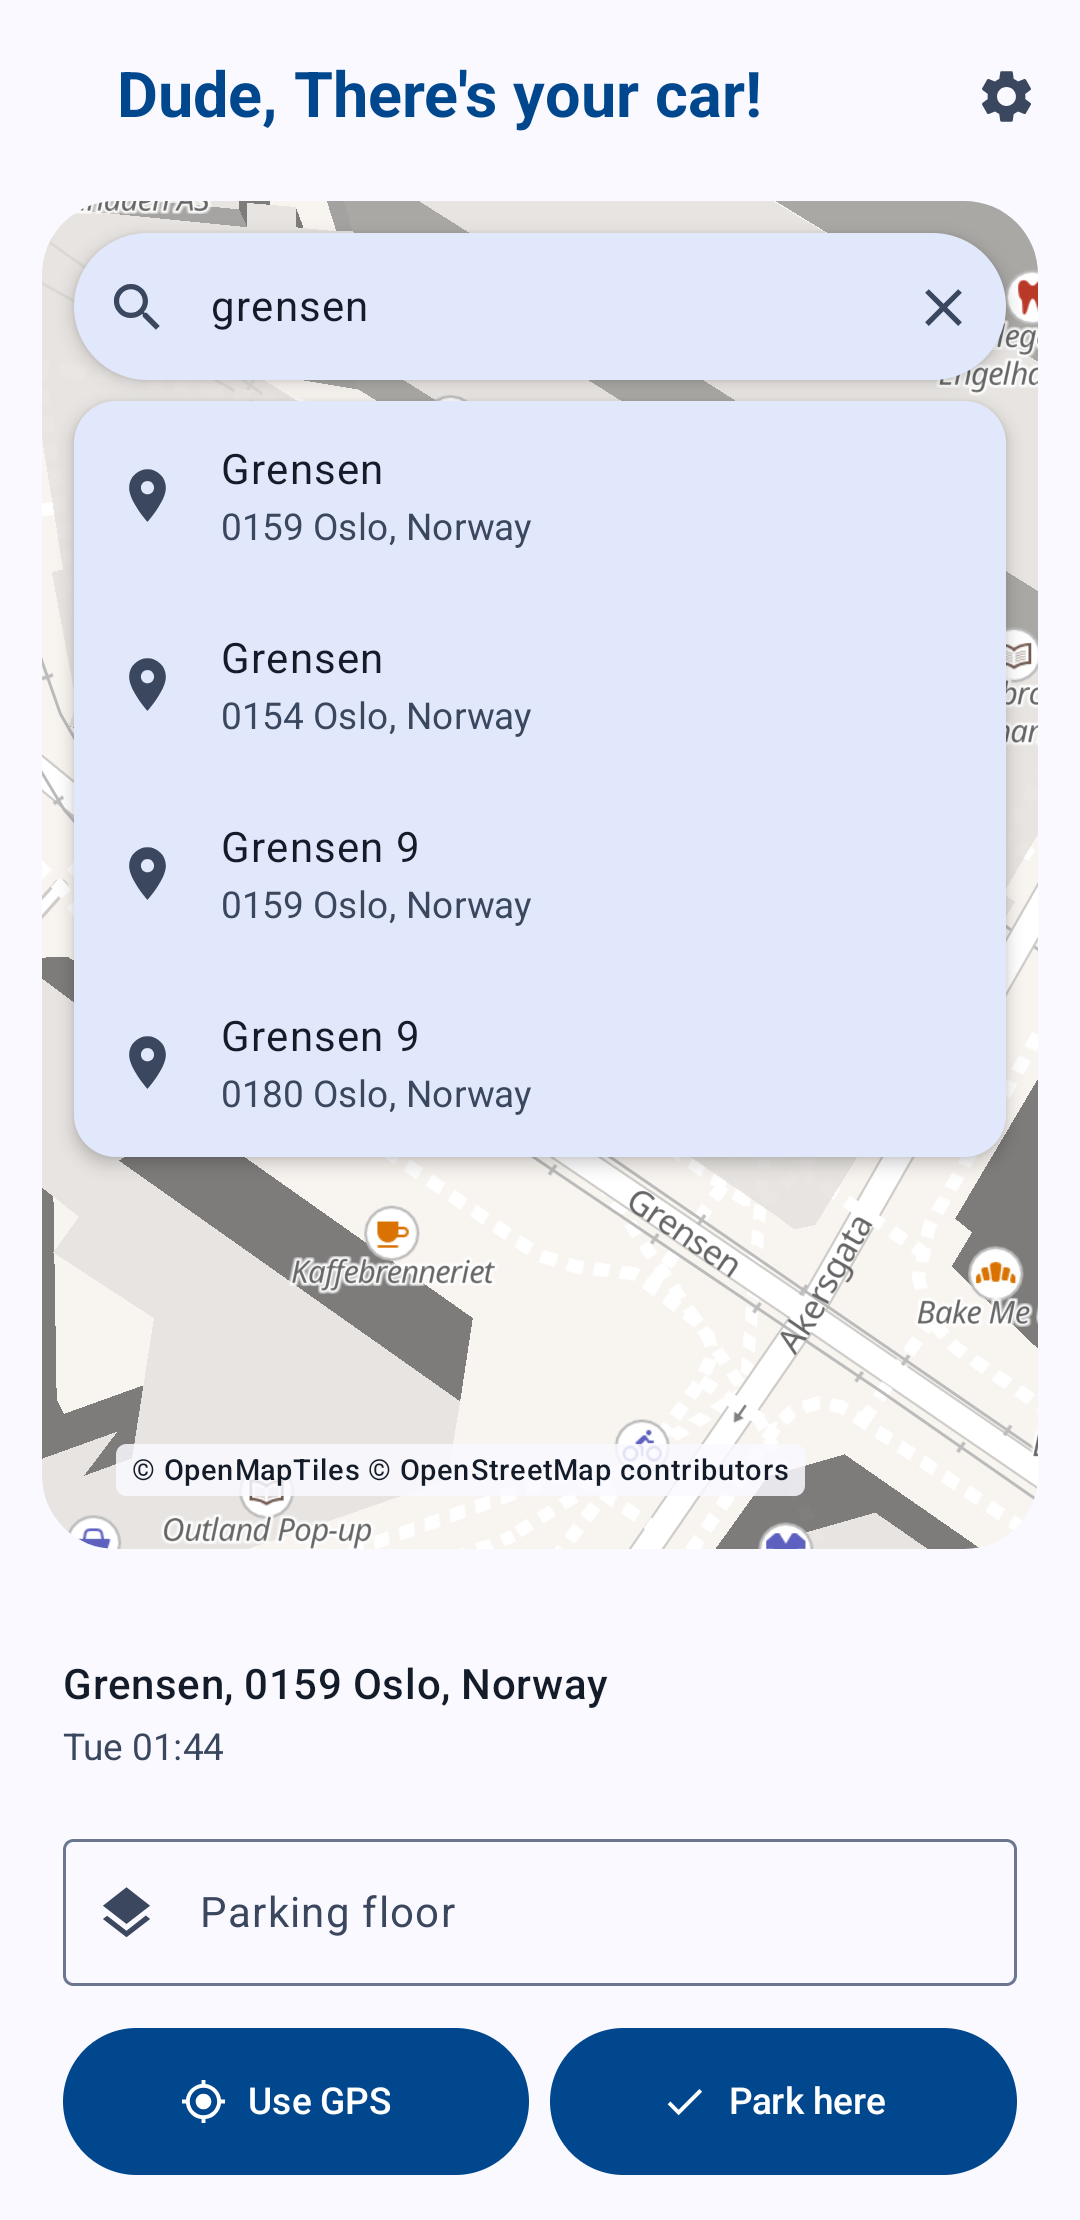
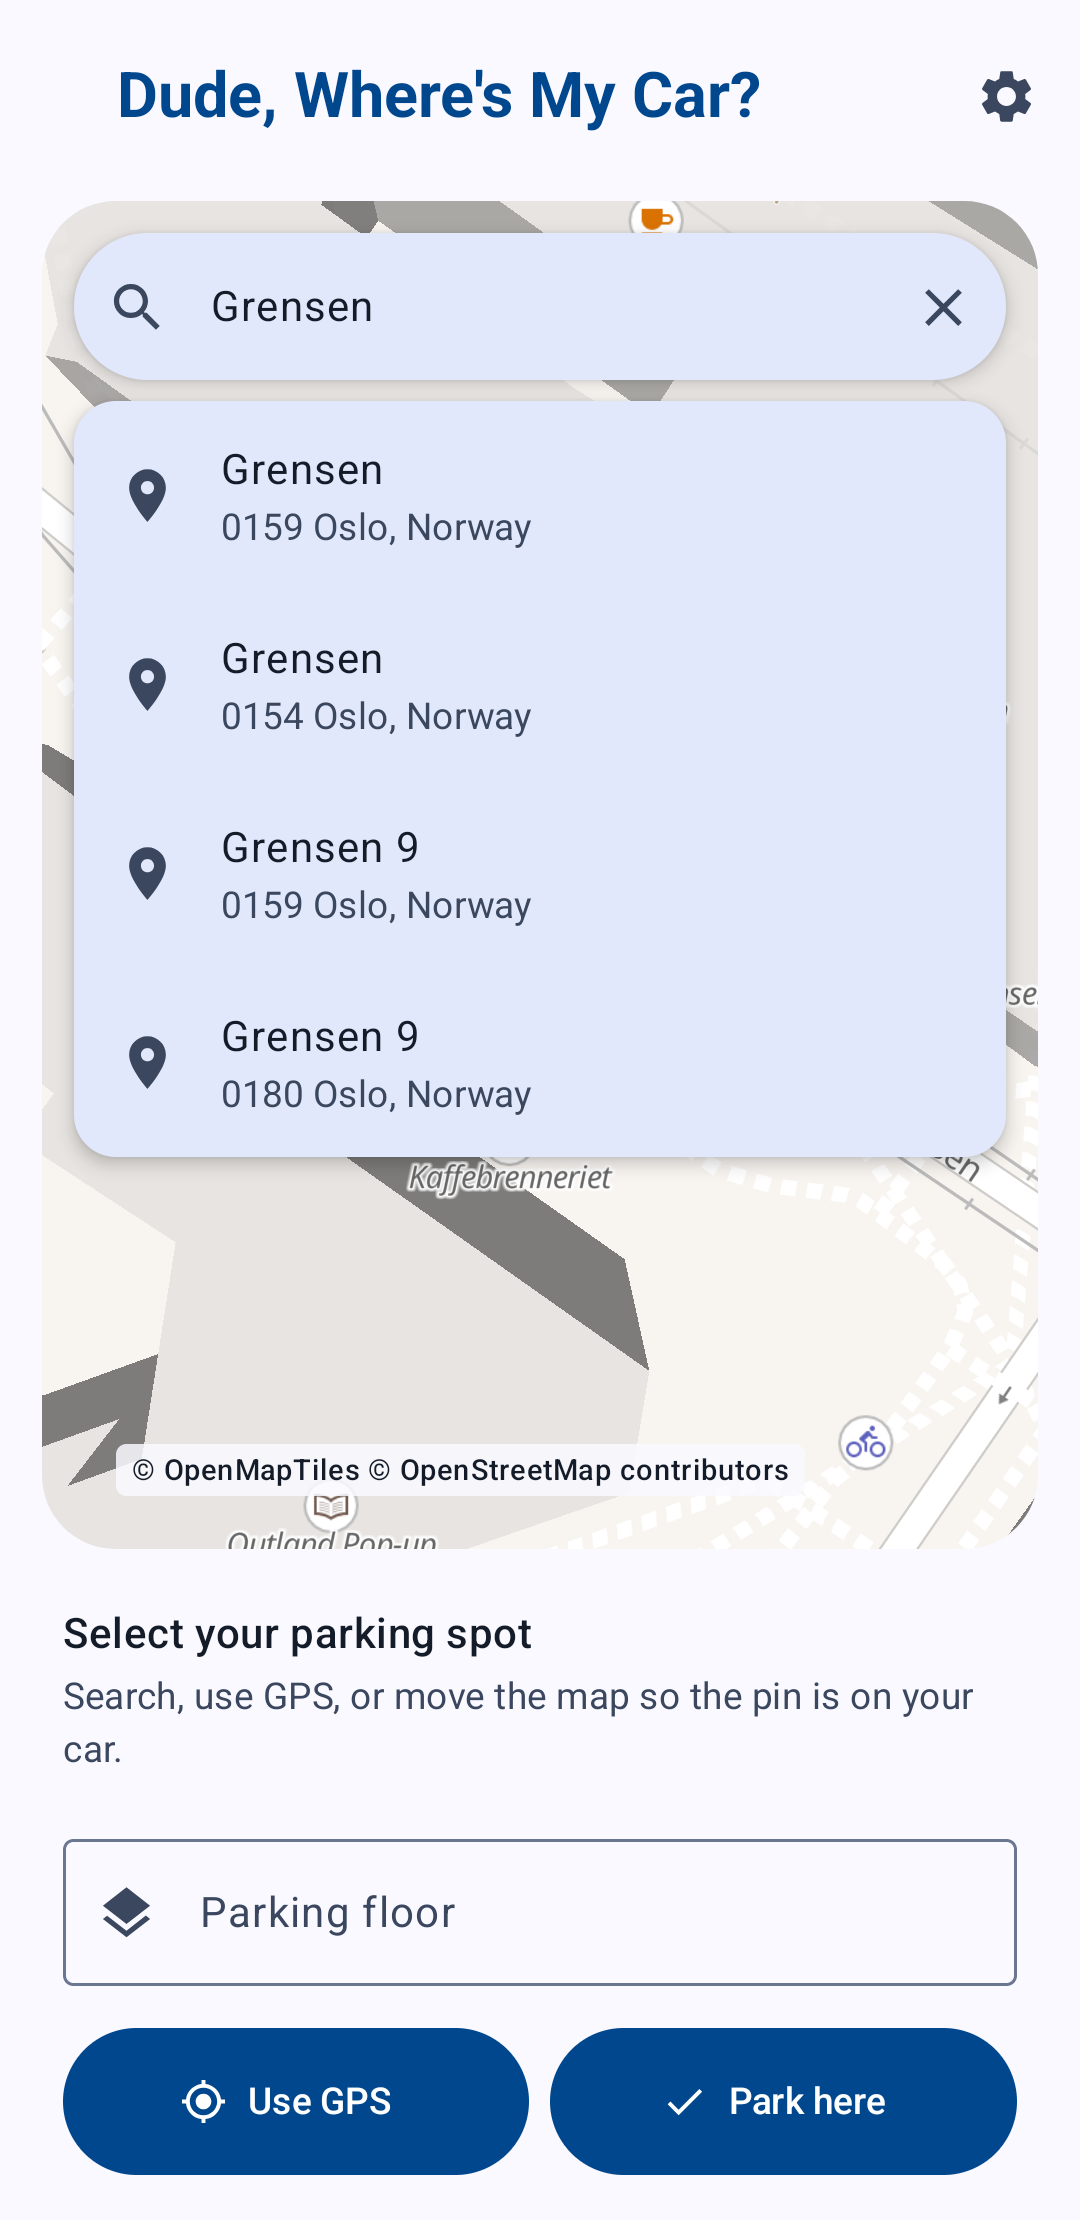
Update screenshots

diff --git a/README.md b/README.md
@@ -16,7 +16,7 @@ Your parking spot is saved locally on your device.
 ## Screenshots
 
 <p>
-  <img src="screenshots/parked-light.png" alt="Parked car in light mode" width="260">
+  <img src="screenshots/start-light.png" alt="Selecting a parking spot in light mode" width="260">
   <img src="screenshots/parked-dark.png" alt="Parked car in dark mode" width="260">
   <img src="screenshots/search-light.png" alt="Searching for an address" width="260">
 </p>
